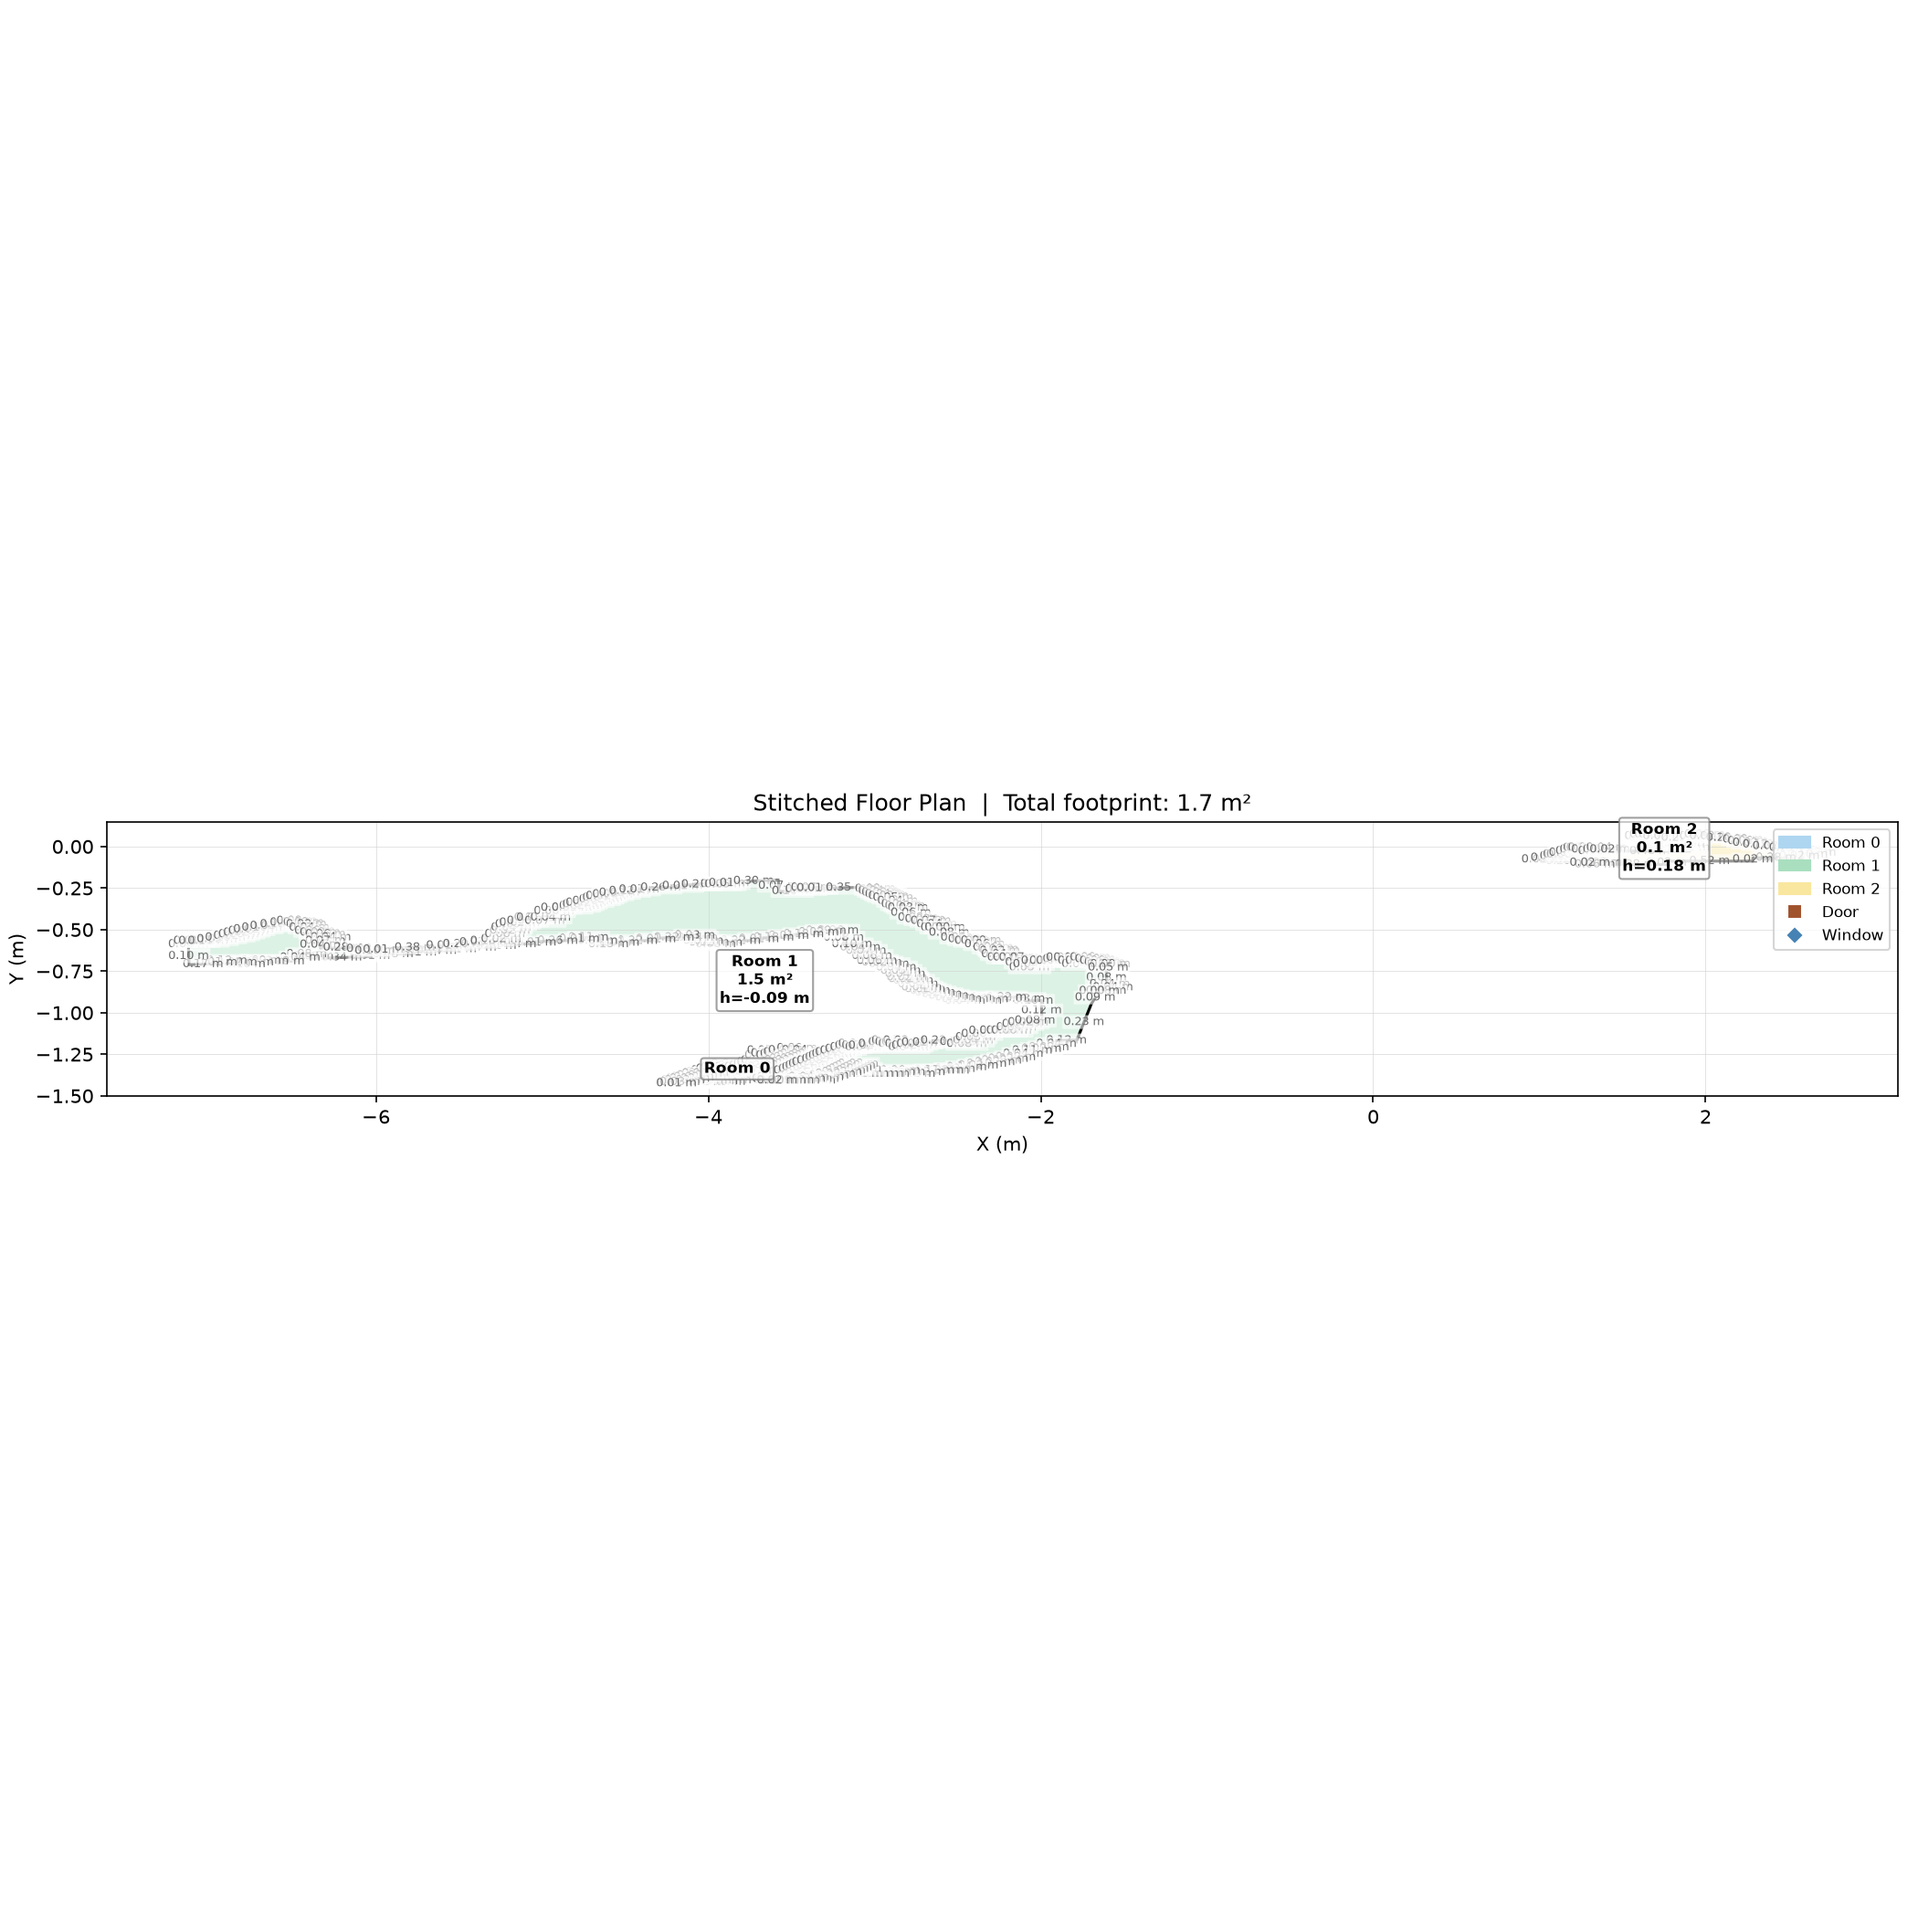
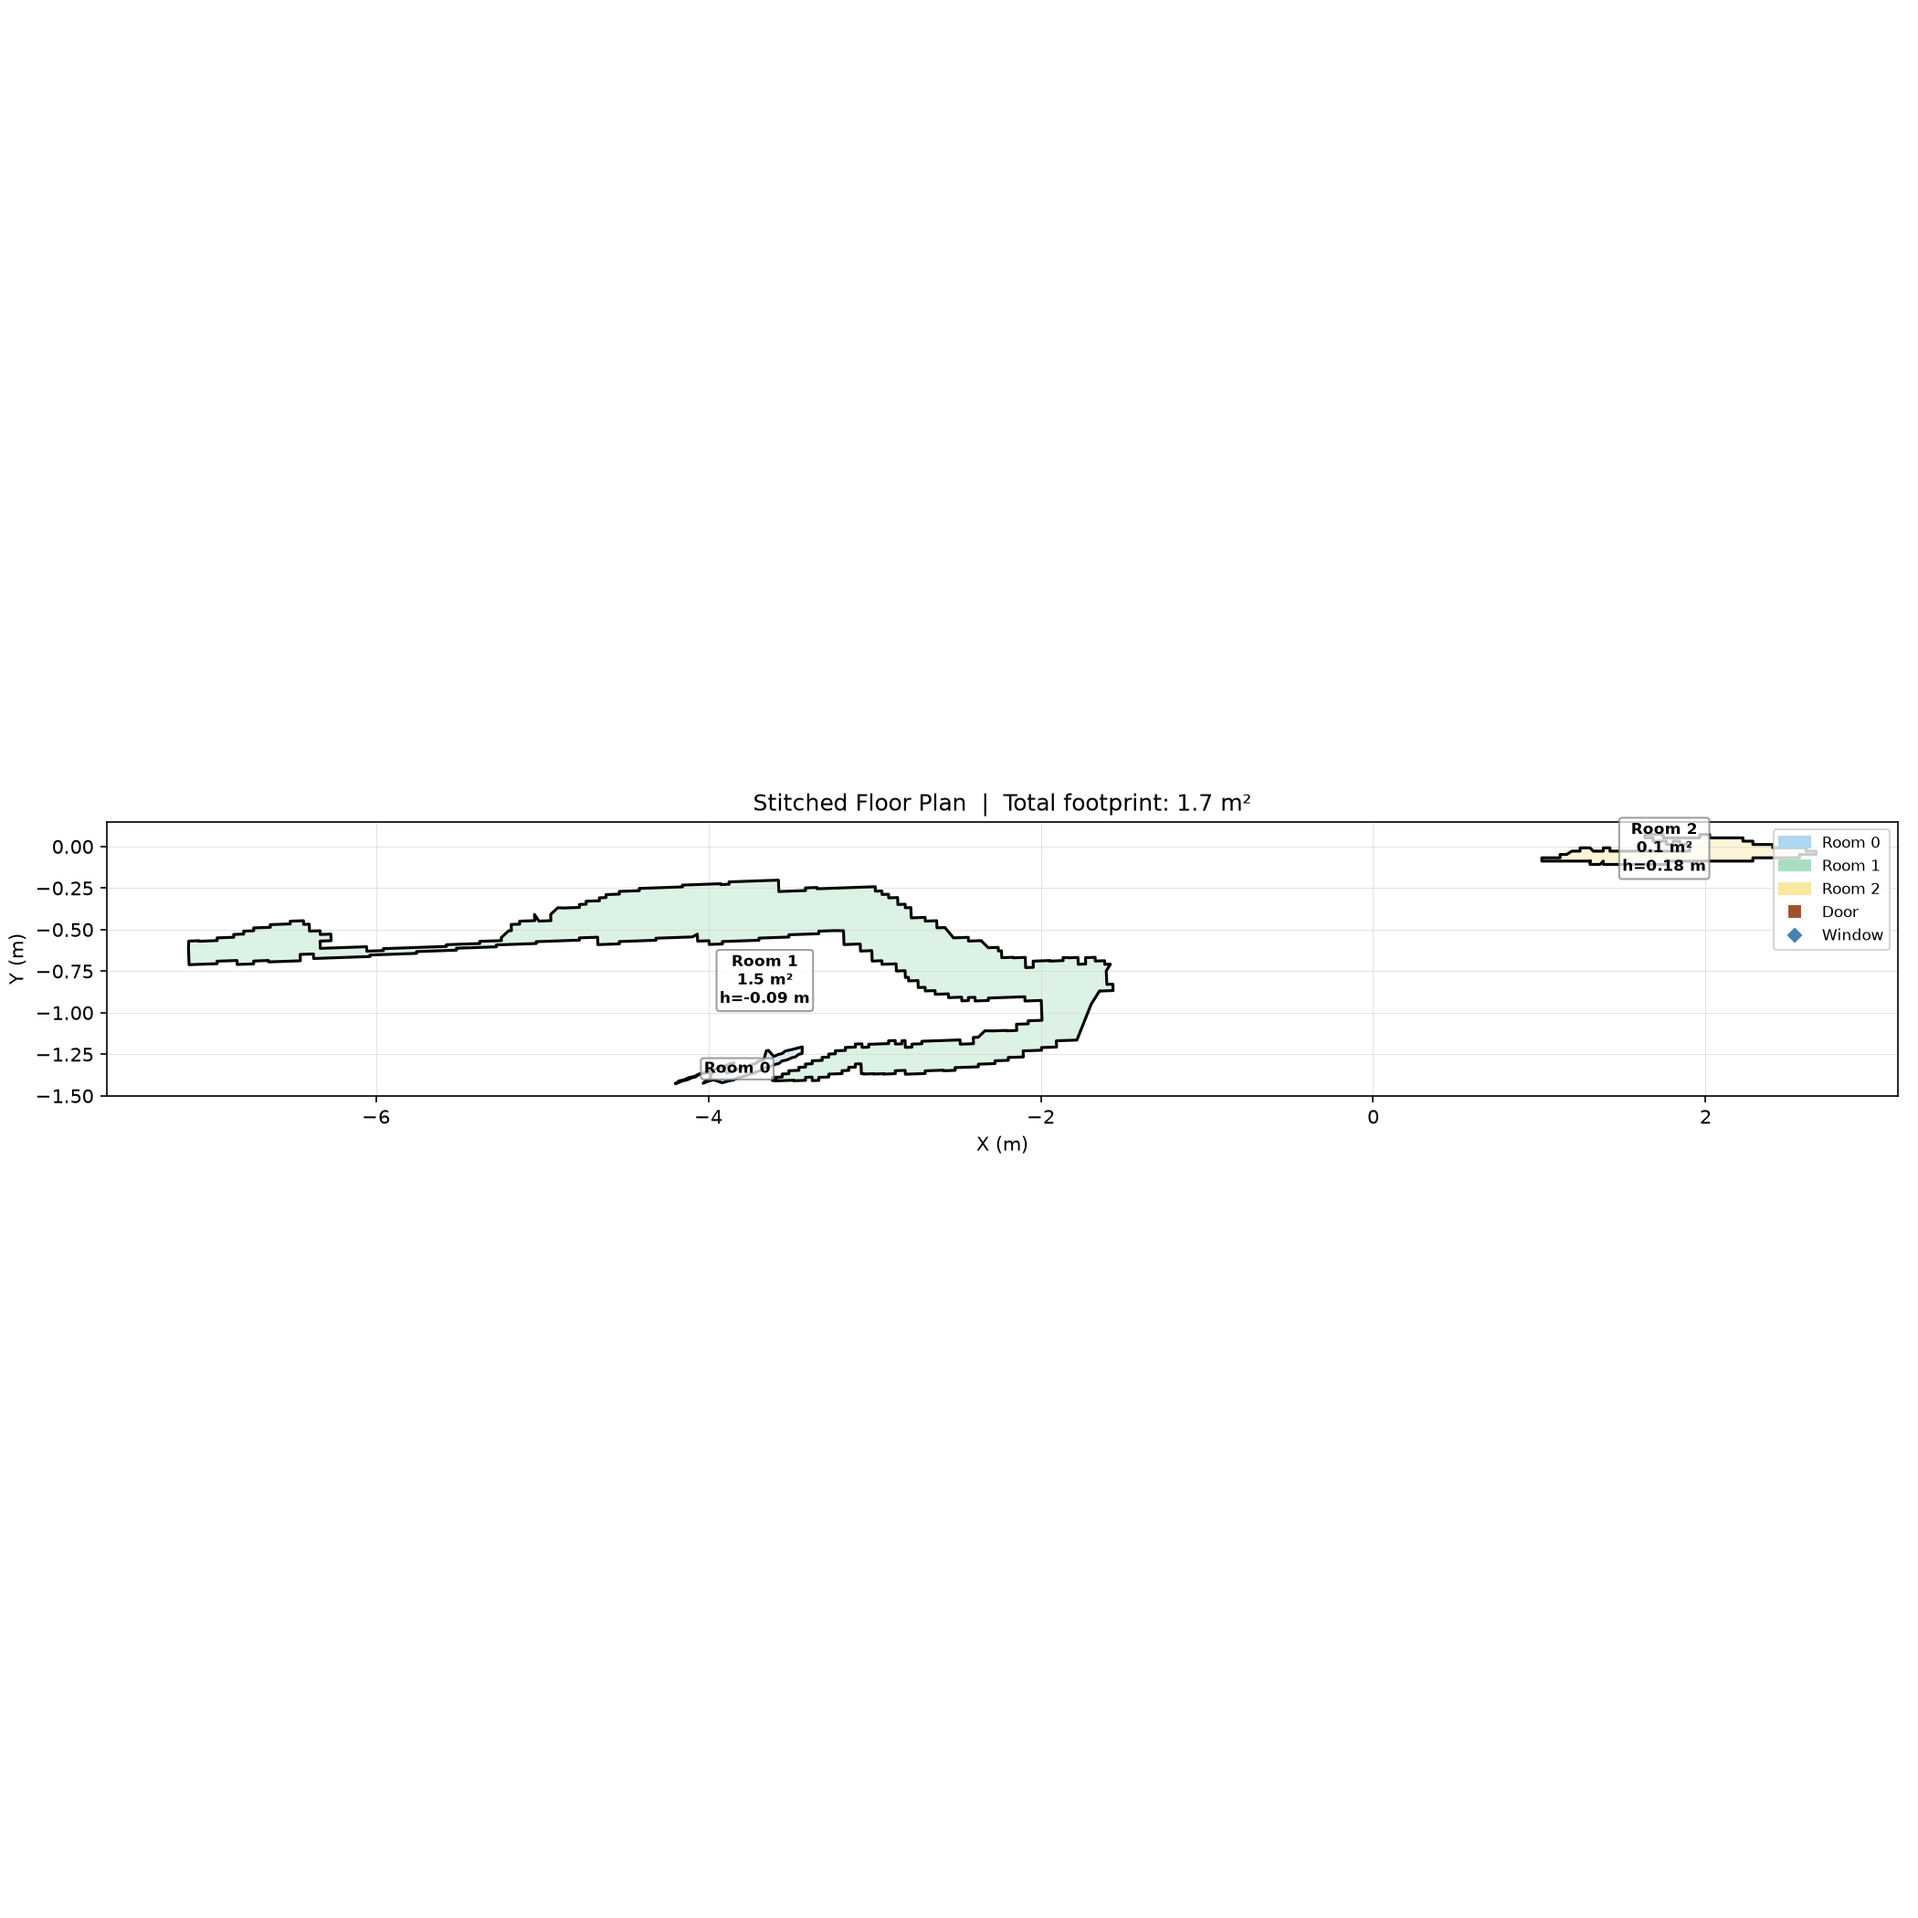
Add output module: confidence intervals, unified JSON assembly, schema validation, and floor plan render

diff --git a/src/reconstruction/stitch_render.py b/src/reconstruction/stitch_render.py
@@ -51,18 +51,8 @@ def render_stitched_plan(
         ax.fill(pts[:, 0], pts[:, 1], color=color, alpha=0.4, zorder=1)
         ax.plot(pts[:, 0], pts[:, 1], color="black", linewidth=1.5, zorder=2)
 
-        # Wall length labels at each segment midpoint
-        meta = room_metadata.get(room_id, {})
-        wall_lengths = meta.get("wall_lengths_m", [])
-        n = len(pts) - 1
-        for i in range(min(n, len(wall_lengths))):
-            mid = (pts[i] + pts[i + 1]) / 2
-            ax.text(mid[0], mid[1], f"{wall_lengths[i]:.2f} m",
-                    fontsize=6, ha="center", va="center",
-                    color="dimgray", zorder=4,
-                    bbox=dict(boxstyle="round,pad=0.1", fc="white", alpha=0.6, ec="none"))
-
         # Room centroid label
+        meta = room_metadata.get(room_id, {})
         cx, cy = _polygon_centroid(verts)
         area    = meta.get("floor_area_m2", "?")
         ceiling = meta.get("ceiling_height_m", "?")

diff --git a/src/reconstruction/render.py b/src/reconstruction/render.py
@@ -44,17 +44,6 @@ def render_floor_plan(
                 ha="center", va="center", fontsize=8, fontweight="bold",
                 bbox=dict(boxstyle="round,pad=0.2", facecolor="white", alpha=0.6))
 
-        # Wall length labels at segment midpoints
-        lengths = meta.get("wall_lengths", [])
-        n = len(verts)
-        for i, wl in enumerate(lengths):
-            if wl < 0.05:
-                continue
-            mid = (verts[i] + verts[(i + 1) % n]) / 2
-            ax.text(mid[0], mid[1], f"{wl:.2f} m",
-                    ha="center", va="center", fontsize=6, color="#2C3E50",
-                    bbox=dict(boxstyle="round,pad=0.1", facecolor="white", alpha=0.5))
-
     ax.autoscale_view()
     ax.set_xlabel("X (m)", fontsize=10)
     ax.set_ylabel("Y (m)", fontsize=10)
